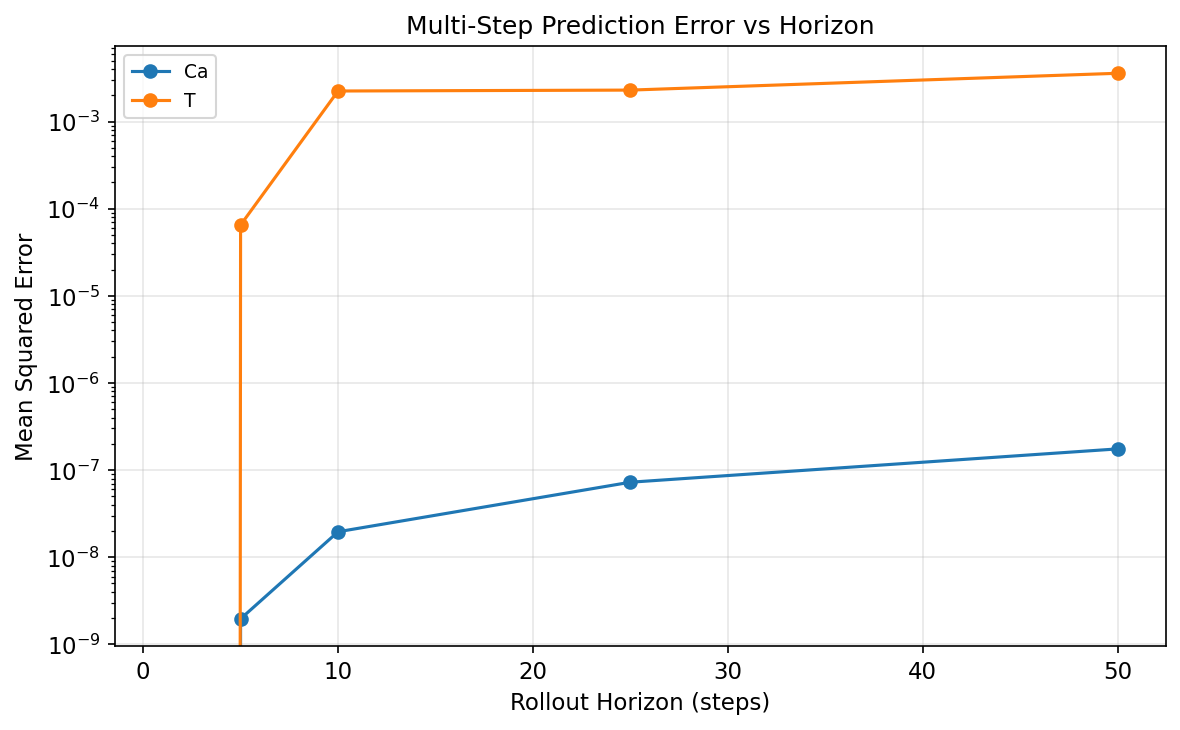
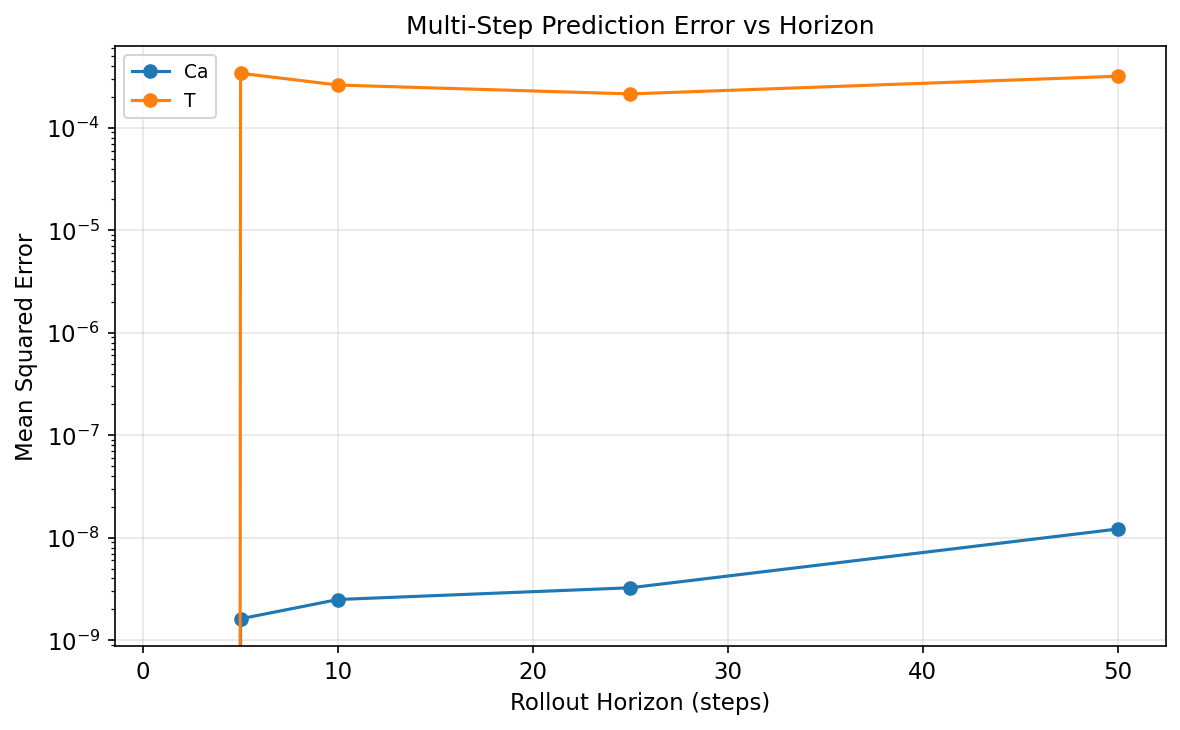
Train with 20K transitions and 200K SAC steps, add initial condition randomization for evaluation

diff --git a/src/learned_env.py b/src/learned_env.py
@@ -11,14 +11,42 @@ class SetpointRewardWrapper(gym.Wrapper):
     """Replaces the environment's reward with setpoint tracking reward.
 
     This ensures both GT and learned envs use the same reward function.
+    Also randomizes initial conditions for evaluation diversity.
     """
 
     def __init__(
-        self, env: gym.Env, setpoints: dict[str, float], state_names: list[str]
+        self,
+        env: gym.Env,
+        setpoints: dict[str, float],
+        state_names: list[str],
+        x0: np.ndarray | None = None,
+        state_low: np.ndarray | None = None,
+        state_high: np.ndarray | None = None,
     ) -> None:
         super().__init__(env)
         self.setpoints = setpoints
         self.state_names = state_names
+        self._x0 = x0
+        self._state_low = state_low
+        self._state_high = state_high
+
+    def reset(self, **kwargs):
+        obs, info = self.env.reset(**kwargs)
+        # Perturb initial state if bounds are provided
+        if self._x0 is not None and self._state_low is not None:
+            noise_scale = 0.05 * (self._state_high - self._state_low)
+            noise = self.np_random.uniform(-noise_scale, noise_scale).astype(np.float32)
+            obs = np.clip(
+                self._x0.astype(np.float32) + noise,
+                self._state_low,
+                self._state_high,
+            ).astype(np.float32)
+            # Overwrite the env's internal state
+            if hasattr(self.env, 'state'):
+                self.env.state = obs.copy()
+            if hasattr(self.env, 'obs'):
+                self.env.obs = obs.copy()
+        return obs, info
 
     def step(self, action):
         obs, _reward, terminated, truncated, info = self.env.step(action)
@@ -69,7 +97,14 @@ class LearnedCSTREnv(gym.Env):
         options: dict | None = None,
     ) -> tuple[np.ndarray, dict]:
         super().reset(seed=seed)
-        self._state = self.config.x0.copy().astype(np.float32)
+        # Randomize initial state around x0 (+/- 5% of range)
+        noise_scale = 0.05 * (self.config.state_high - self.config.state_low)
+        noise = self.np_random.uniform(-noise_scale, noise_scale).astype(np.float32)
+        self._state = np.clip(
+            self.config.x0.astype(np.float32) + noise,
+            self.config.state_low,
+            self.config.state_high,
+        ).astype(np.float32)
         self._step_count = 0
         return self._state.copy(), {}
 

diff --git a/scripts/run_pipeline.py b/scripts/run_pipeline.py
@@ -34,9 +34,9 @@ def step1_collect_data(cstr_config: CSTRConfig) -> dict[str, np.ndarray]:
     print("Step 1: Collecting CSTR rollout data...")
     all_data: dict[str, list[np.ndarray]] = {"states": [], "actions": [], "next_states": []}
 
-    for strategy in ["random", "sinusoidal", "step"]:
+    for strategy in ["random", "sinusoidal", "step", "mixed"]:
         data = collect_cstr_rollouts(
-            n_episodes=10,
+            n_episodes=50,
             steps_per_episode=100,
             config=cstr_config,
             seed=42,
@@ -212,6 +212,9 @@ def step4_rl_evaluation(
         _make_cstr_env(cstr_config),
         setpoints=cstr_config.setpoints,
         state_names=cstr_config.state_names,
+        x0=cstr_config.x0,
+        state_low=cstr_config.state_low,
+        state_high=cstr_config.state_high,
     )
 
     results = sim_to_real_comparison(learned_env, gt_env, rl_config)
@@ -235,7 +238,7 @@ def main() -> None:
         patience=10,
         batch_size=256,
     )
-    rl_config = RLConfig(total_timesteps=50_000, eval_episodes=10)
+    rl_config = RLConfig(total_timesteps=200_000, eval_episodes=20)
 
     # Pipeline
     data = step1_collect_data(cstr_config)

diff --git a/README.md b/README.md
@@ -42,9 +42,11 @@ The sim-to-real transfer gap is the central evaluation: can a policy learned ent
 
 | Condition | Mean Episode Reward |
 |-----------|-------------------|
-| GT-trained, evaluated in GT | -0.53 |
-| Learned-trained, evaluated in Learned | -0.55 |
-| Learned-trained, evaluated in GT | -0.52 |
+| GT-trained, evaluated in GT | -0.02 +/- 0.00 |
+| Learned-trained, evaluated in Learned | -0.21 +/- 0.01 |
+| Learned-trained, evaluated in GT | -0.20 +/- 0.01 |
+
+The GT-trained agent achieves near-perfect setpoint tracking (-0.02). The learned-env agent reaches -0.20 — a 10x gap driven by small model prediction errors compounding over 100-step episodes. Crucially, the learned-env agent transfers to the GT environment with no additional degradation (-0.21 vs -0.20), confirming the learned model is a faithful simulator even if not perfect.
 
 ## Scaling to Real Industrial Data: Tennessee Eastman Process
 
